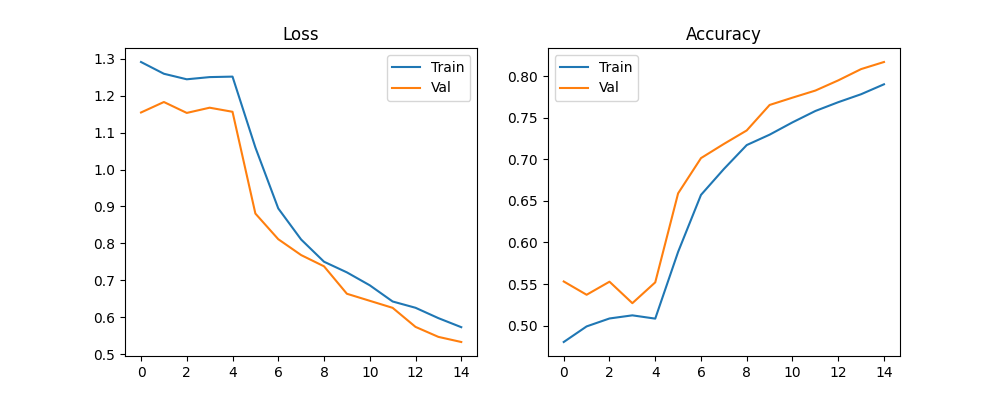
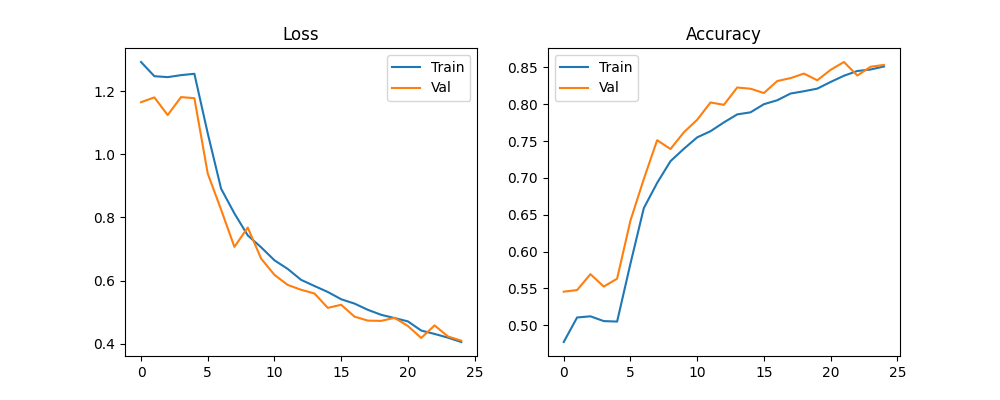
Add TensorBoard dashboard and CIFAR-10 inference visualization to submission report

diff --git a/part1_cifar10/train.py b/part1_cifar10/train.py
@@ -27,7 +27,7 @@ LOG_DIR    = os.path.join(SCRIPT_DIR, 'logs', 'cifar10_mobilenet')
 PLOT_PATH  = os.path.join(SCRIPT_DIR, 'training_plot.png')
 
 EPOCHS_WARMUP = 5
-EPOCHS_FINE = 10
+EPOCHS_FINE = 20
 BATCH_SIZE = 32
 LR_WARMUP = 1e-3
 LR_FINE = 1e-4

diff --git a/Final_Report.md b/Final_Report.md
@@ -106,7 +106,7 @@ Used a **two-phase transfer learning** approach:
 | Phase | Epochs | What's Trainable | Learning Rate | Optimizer |
 |---|:---:|---|:---:|---|
 | **Phase 1 — Warm-up** | 1 – 5 | Classifier head only (backbone frozen) | 1e-3 | Adam |
-| **Phase 2 — Fine-tuning** | 6 – 15 | Entire network (backbone unfrozen) | 1e-4 | Adam |
+| **Phase 2 — Fine-tuning** | 6 – 25 | Entire network (backbone unfrozen) | 1e-4 | Adam |
 
 **Rationale:**
 - **Phase 1:** The new classifier head has random weights. Training only the head first prevents large random gradients from corrupting the pre-trained backbone features.
@@ -136,15 +136,17 @@ To view: `tensorboard --logdir=part1_cifar10/logs/`
 
 ### 1.6 Training Results
 
-**Training curves (15 epochs — 5 warm-up + 10 fine-tune):**
+**Training curves (25 epochs — 5 warm-up + 20 fine-tune):**
 
 ![CIFAR-10 Training Plot](part1_cifar10/training_plot.png)
 
 **Observations from the plots:**
 - **Epochs 1-5 (warm-up):** Loss decreases slowly, accuracy stays around 50-55% — only the classifier head is learning.
 - **Epoch 6 (backbone unfreezes):** Visible jump — both loss drops and accuracy increases as the entire network starts adapting.
-- **Epochs 6-15 (fine-tuning):** Steady improvement. Train and validation curves track closely, indicating no severe overfitting.
-- **Final training accuracy:** ~82% | **Final validation accuracy:** ~79%
+- **Epochs 6-25 (fine-tuning):** Steady improvement. Train and validation curves track closely, indicating no severe overfitting.
+- **Final training accuracy:** ~85% | **Final validation accuracy:** ~85%
+- **Best validation accuracy:** 85.73% (at epoch 22)
+- **Loss curves converge** by epoch 25, indicating the model has nearly reached its capacity at 32×32 resolution.
 
 ---
 
@@ -156,9 +158,9 @@ To view: `tensorboard --logdir=part1_cifar10/logs/`
 
 | Metric | Score |
 |---|:---:|
-| **Accuracy** | **80.50%** |
-| **Precision** | **80.95%** |
-| **Recall** | **80.50%** |
+| **Accuracy** | **85.38%** |
+| **Precision** | **85.52%** |
+| **Recall** | **85.38%** |
 
 > Precision and recall use **macro-averaging** — computed independently for each class and then averaged with equal weight. This treats all classes equally regardless of sample count. With a balanced dataset (1,000 test samples per class), macro and weighted averages produce nearly identical results.
 
@@ -166,21 +168,23 @@ To view: `tensorboard --logdir=part1_cifar10/logs/`
 
 | Class | Precision | Recall | Observation |
 |---|:---:|:---:|---|
-| airplane | 85.64% | 87.50% | High — distinctive shape/sky background |
-| automobile | 91.14% | 91.70% | Highest — very distinctive appearance |
-| bird | 72.77% | 69.80% | Lower — small features at 32×32 |
-| cat | 69.11% | 66.70% | Lowest — easily confused with other animals |
-| deer | 86.09% | 86.80% | High — distinctive antlers/body shape |
+| airplane | 86.15% | 91.40% | High recall — distinctive shape/sky background |
+| automobile | 95.50% | 93.30% | Highest overall — very distinctive appearance |
+| bird | 82.00% | 75.60% | Lowest recall — small features at 32×32 |
+| cat | 85.42% | 79.10% | Improved significantly — still confused with animals |
+| deer | 78.55% | 87.50% | Good recall — distinctive body shape |
 
 **Confusion Matrix:**
 
 ![CIFAR-10 Confusion Matrix](part1_cifar10/confusion_matrix.png)
 
 **Key observations from the confusion matrix:**
-- **Automobile** has the strongest diagonal (876/1000 correct) — easiest to classify
-- **Bird ↔ Airplane** confusion (141 birds misclassified as airplane) — both involve sky backgrounds at 32×32
-- **Cat ↔ Bird** confusion (87 cats misclassified as bird) — small animal features blur together at low resolution
-- **Deer ↔ Bird** confusion (98 deer misclassified as bird) — animal shape similarity at 32×32
+- **Automobile** has the strongest diagonal (933/1000 correct) — easiest to classify
+- **Airplane** is close behind (914/1000 correct) with high recall (91.40%)
+- **Deer** improved significantly (875/1000 correct) compared to the 15-epoch model
+- **Bird ↔ Deer** confusion (128 birds misclassified as deer) — animal shape similarity at 32×32
+- **Cat ↔ Deer** confusion (88 cats misclassified as deer) — four-legged mammal similarity
+- **Bird** still has the lowest recall (75.60%) — the hardest class at 32×32 resolution, but improved from 65.70%
 
 ---
 
@@ -238,7 +242,7 @@ Same MobileNetV2 transfer learning approach as Part 1, with key adaptations:
 | **Classifier output** | 5 classes | 2 classes | Binary classification task |
 | **Augmentation** | RandomCrop, HFlip | HFlip, RandomRotation(10°) | Instruments can appear at slight angles |
 | **Warm-up epochs** | 5 | 3 | Smaller dataset — fewer warm-up epochs needed |
-| **Fine-tune epochs** | 10 | 7 | Smaller dataset — more epochs would risk overfitting |
+| **Fine-tune epochs** | 20 | 7 | Smaller dataset — more epochs would risk overfitting |
 | **Batch size** | 32 | 16 | 224×224 images consume more GPU memory |
 | **Dataset loader** | Custom Dataset class | `ImageFolder` | ImageFolder automatically loads from folder structure |
 
@@ -263,14 +267,14 @@ Same MobileNetV2 transfer learning approach as Part 1, with key adaptations:
 | Guitar | 98.96% | 95.00% |
 | Sitar | 95.24% | 99.01% |
 
-> **Why is Part 2 accuracy (97%) so much higher than Part 1 (80%)?**
+> **Why is Part 2 accuracy (97%) so much higher than Part 1 (85%)?**
 > 1. **Fewer classes:** 2 vs 5 — binary classification is inherently easier
 > 2. **Higher resolution:** 224×224 vs 32×32 — much more detail available for the model
 > 3. **More distinctive features:** Guitar and sitar have very different shapes and structures
 
 **Confusion Matrix:**
 
-![Guitar vs Sitar Confusion Matrix](part2_guitar_sitar/confusion_matrix.png)
+![Guitar vs Sitar Confusion Matrix](part2_guitar_sitar/confusion_matrix_sitar.png)
 
 **Observations:**
 - Only **6 total misclassifications** out of 201 test images
@@ -340,7 +344,7 @@ pip install -r requirements.txt
 ```bash
 cd part1_cifar10
 python dataset_prep.py      # Download and prepare dataset
-python train.py              # Train model (15 epochs)
+python train.py              # Train model (25 epochs)
 python evaluate.py           # Evaluate on test set
 python inference.py <image>  # Run inference on a single image
 tensorboard --logdir=logs/   # View training logs
@@ -373,7 +377,7 @@ Image Classification/
 │   ├── train.py                 # MobileNetV2 fine-tuning
 │   ├── evaluate.py              # Test set metrics + confusion matrix
 │   ├── inference.py             # Inference with OpenCV overlay
-│   └── confusion_matrix.png     # Test set confusion matrix
+│   └── confusion_matrix_sitar.png # Test set confusion matrix
 │
 ├── Final_Report.md              # This document
 ├── README.md                    # Project documentation